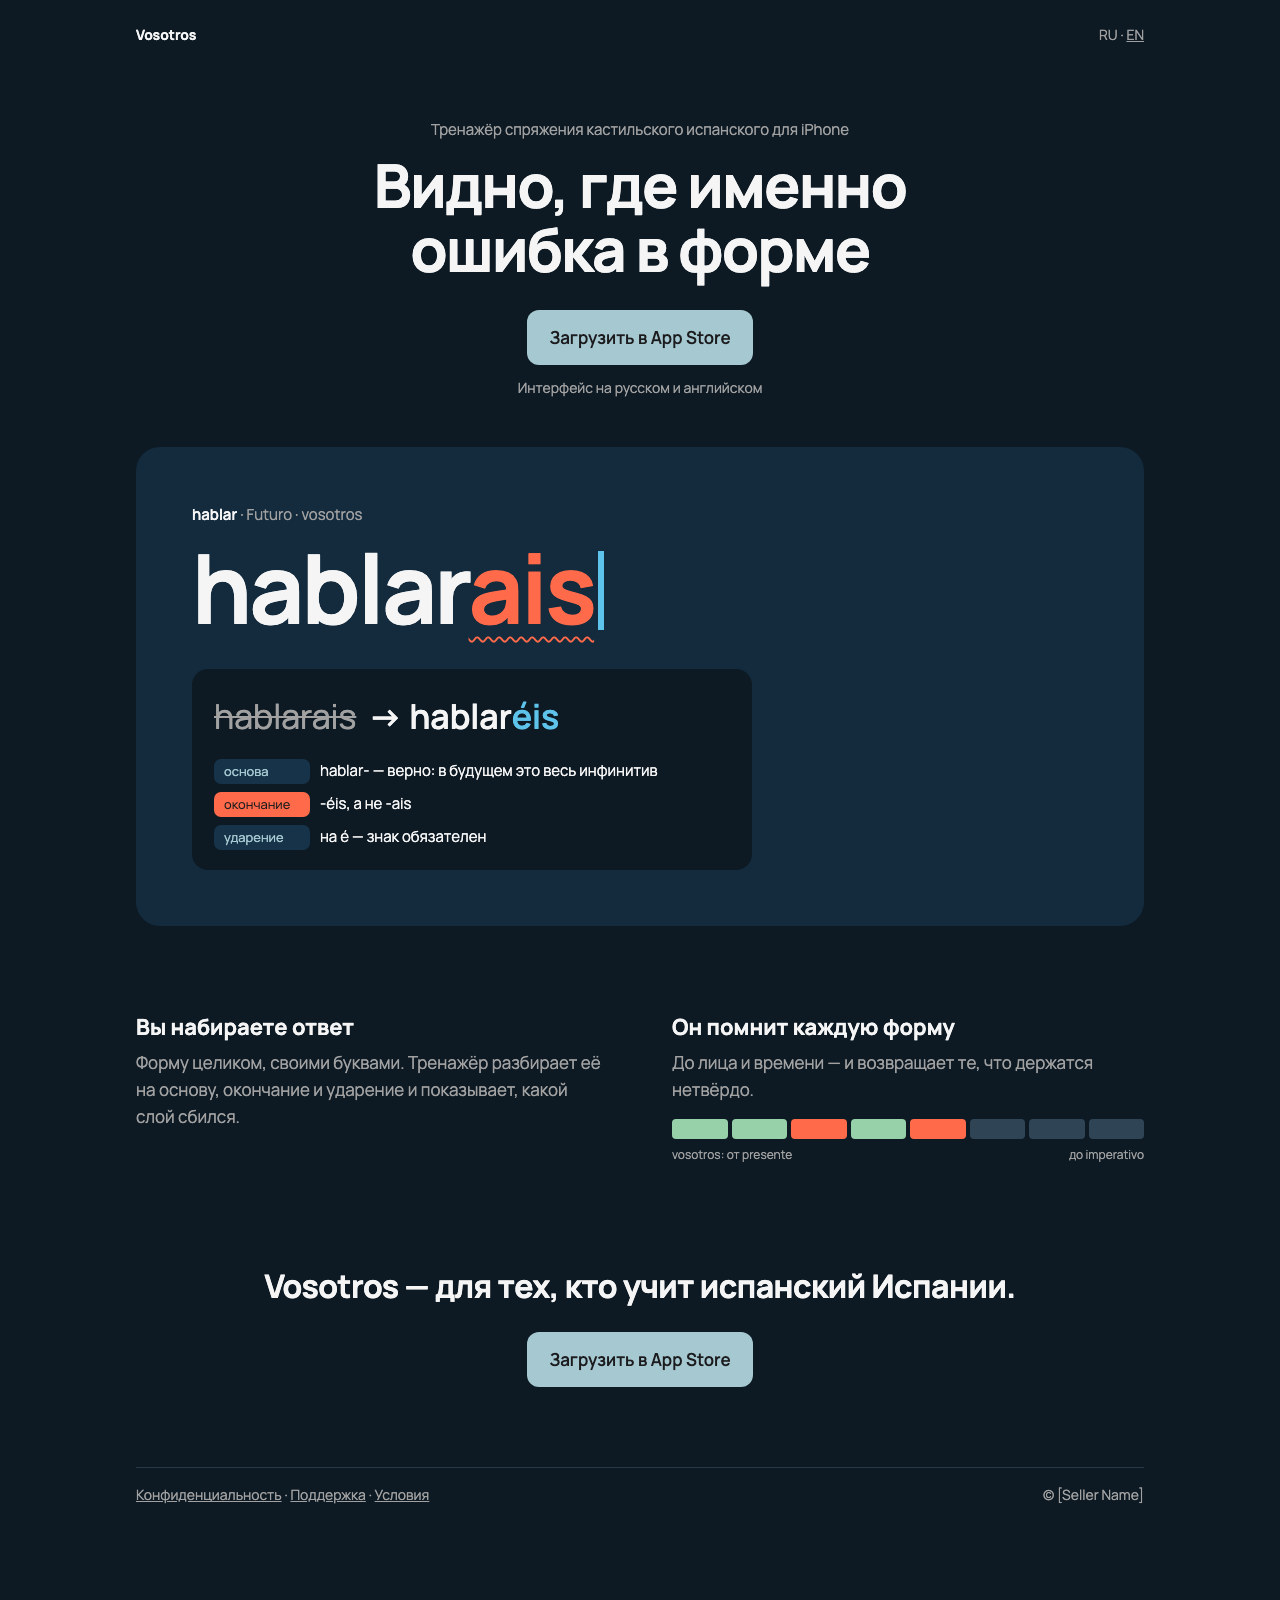
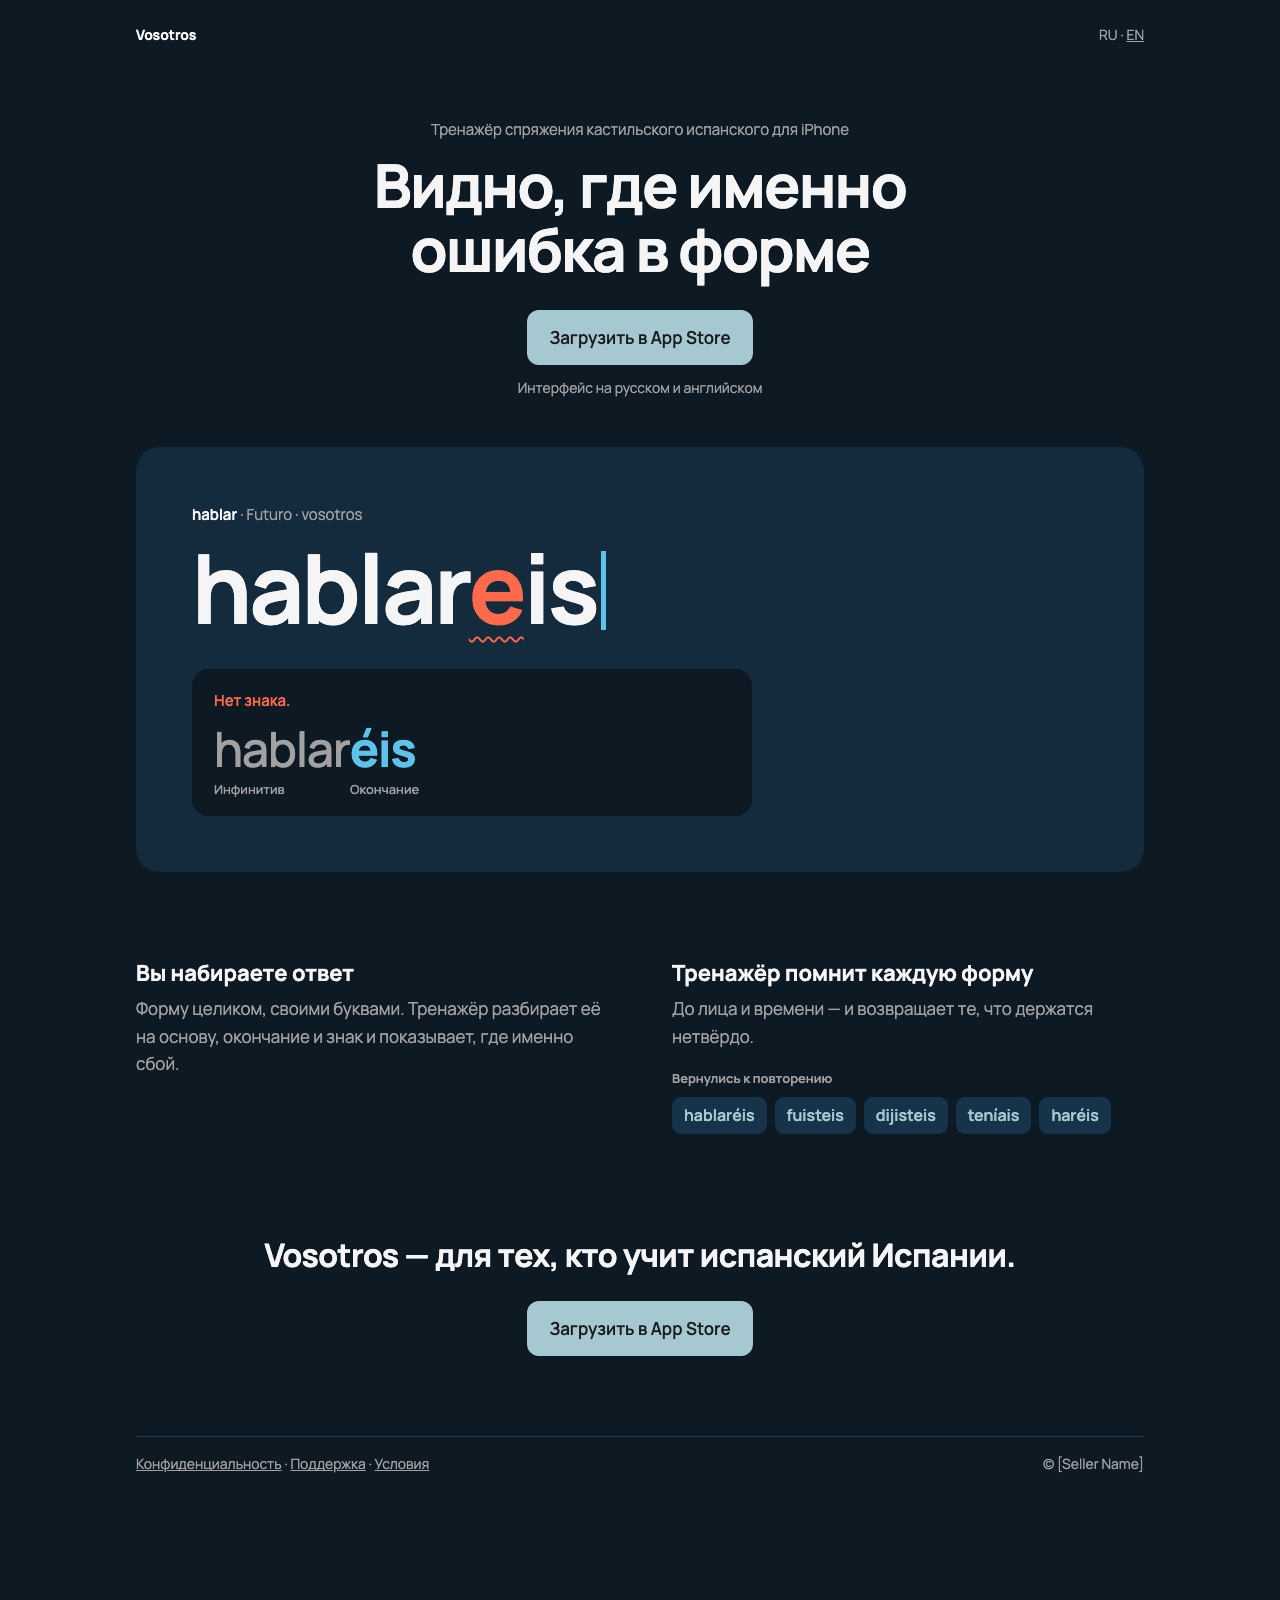
ЛН-1: вариант Б, круг 3 — герой hablareis (сбой только в знаке), карточка по экрану разбора и каталогу («Нет знака.», Инфинитив/Окончание), два варианта блока повторения без светофора; кадры круга 2 сохранены как -krug2

diff --git a/design/variant-B-nedelya.html b/design/variant-B-nedelya.html
@@ -1,0 +1,90 @@
+<!doctype html>
+<html lang="ru">
+<head>
+<meta charset="utf-8">
+<meta name="viewport" content="width=device-width, initial-scale=1">
+<title>Vosotros — вариант Б «Форма по слоям», круг 3, блок «Неделя»</title>
+<style>
+@font-face{font-family:Manrope;src:url(fonts/Manrope.ttf) format("truetype");font-weight:200 800;font-display:swap}
+:root{--bg:#FCFDFE;--sheet:#F4F8F9;--ink:#1C1C1C;--muted:#646464;--line:#D5DEE2;--nest:#D6E7F0;--nestInk:#12354E;--mark:#1F7FAE;--err:#C2381E;--ok:#1A7444;--okBg:#DCEFE3;--none:#C9D3D6;--btn:#12354E;--on:#fff;color-scheme:light dark}
+@media (prefers-color-scheme:dark){:root{--bg:#0D1A24;--sheet:#132B3D;--ink:#F5F5F5;--muted:#A1A1A1;--line:#26394A;--nest:#173349;--nestInk:#A5C8D1;--mark:#5EC3EA;--err:#FF6B4A;--ok:#96D1AA;--okBg:#1B3A2C;--none:#2F4556;--btn:#A5C8D1;--on:#1C1C1E}}
+*{box-sizing:border-box}
+body{margin:0;background:var(--bg);color:var(--ink);font:400 17px/1.6 Manrope,system-ui,sans-serif}
+a{color:inherit}
+.page{max-width:1040px;margin:0 auto;padding:24px 16px 40px}
+header,footer{display:flex;justify-content:space-between;gap:12px;font-size:14px;color:var(--muted)}
+header b{color:var(--ink);font-weight:700}
+.intro{text-align:center;max-width:640px;margin:72px auto 48px}
+.kicker{font-size:15px;color:var(--muted);margin:0 0 12px}
+h1{font-size:clamp(34px,6.4vw,60px);font-weight:700;letter-spacing:-.025em;line-height:1.06;margin:0 0 28px}
+.btn{display:inline-block;background:var(--btn);color:var(--on);text-decoration:none;font-weight:600;border-radius:12px;padding:14px 22px}
+.sub{font-size:14px;color:var(--muted);margin:12px 0 0}
+.sheet{background:var(--sheet);border-radius:24px;padding:clamp(24px,5vw,56px)}
+.ask{font-size:15px;color:var(--muted);margin:0}
+.ask b{color:var(--ink);font-weight:600}
+.typed{font-size:clamp(44px,10vw,96px);font-weight:700;letter-spacing:-.03em;line-height:1.1;margin:8px 0 28px;word-break:break-word}
+.typed .e{color:var(--err);text-decoration:underline wavy var(--err);text-decoration-thickness:2px;text-underline-offset:12px}
+.caret{display:inline-block;width:.06em;height:.82em;background:var(--mark);vertical-align:-.06em;margin-left:.04em;animation:blink 1.1s steps(1) infinite}
+@keyframes blink{50%{opacity:0}}
+@media (prefers-reduced-motion:reduce){.caret{animation:none}}
+.fix{background:var(--bg);border-radius:16px;padding:20px 22px;max-width:560px}
+.fix .verdict{margin:0 0 10px;font-size:15px;font-weight:600;color:var(--err)}
+.fix .row{margin:0;font-size:clamp(32px,6vw,48px);font-weight:700;letter-spacing:-.02em;line-height:1.1}
+.fix .row .st{color:var(--muted);font-weight:500}
+.fix .row .m{color:var(--mark)}
+.fix .pt{display:inline-flex;flex-direction:column}
+.fix .pt small{font-size:13px;font-weight:500;letter-spacing:0;color:var(--muted);margin-top:6px}
+.prose{display:grid;gap:40px;margin:88px 0 0}
+@media (min-width:760px){.prose{grid-template-columns:1fr 1fr;column-gap:64px}}
+.prose h2{font-size:22px;font-weight:700;line-height:1.25;margin:0 0 8px}
+.prose p{margin:0;color:var(--muted)}
+.week{margin:18px 0 0}
+.week b{display:block;font-size:13px;font-weight:600;color:var(--muted);margin-bottom:10px}
+.week ol{list-style:none;margin:0;padding:0;display:grid;grid-template-columns:repeat(7,1fr);gap:6px;align-items:end;height:96px}
+.week li{display:flex;flex-direction:column;justify-content:flex-end;align-items:center;height:100%;font-size:12px;color:var(--muted)}
+.week li i{display:block;width:100%;border-radius:5px 5px 2px 2px;background:var(--mark);opacity:1}
+.week li span{margin-top:6px}
+.end{text-align:center;margin:96px 0 0}
+.end p{font-size:clamp(24px,4vw,32px);font-weight:700;letter-spacing:-.015em;margin:0 0 20px}
+footer{margin-top:80px;padding-top:16px;border-top:1px solid var(--line);flex-wrap:wrap}
+</style>
+</head>
+<body><div class="page">
+<header><b>Vosotros</b><span>RU · <a href="#">EN</a></span></header>
+<main>
+<section class="intro">
+<p class="kicker">Тренажёр спряжения кастильского испанского для iPhone</p>
+<h1>Видно, где именно ошибка в&nbsp;форме</h1>
+<a class="btn" href="#">Загрузить в App Store</a>
+<p class="sub">Интерфейс на русском и английском</p>
+</section>
+
+<section class="sheet" aria-label="Пример разбора ответа">
+<p class="ask"><b>hablar</b> · Futuro · vosotros</p>
+<p class="typed">hablar<span class="e">e</span>is<span class="caret" aria-hidden="true"></span></p>
+<div class="fix">
+<p class="verdict">Нет знака.</p>
+<p class="row"><span class="pt"><span class="st">hablar</span><small>Инфинитив</small></span><span class="pt"><span class="m">éis</span><small>Окончание</small></span></p>
+</div>
+</section>
+
+<section class="prose">
+<div>
+<h2>Вы набираете ответ</h2>
+<p>Форму целиком, своими буквами. Тренажёр разбирает её на основу, окончание и знак и показывает, где именно сбой.</p>
+</div>
+<div>
+<h2>Тренажёр помнит каждую форму</h2>
+<p>До лица и времени — и возвращает те, что держатся нетвёрдо.</p>
+<div class="week"><b>Неделя — сколько форм подойдёт к повторению</b><ol><li><i style="height:81px" title="9"></i><span>пн</span></li><li><i style="height:45px" title="5"></i><span>вт</span></li><li><i style="height:63px" title="7"></i><span>ср</span></li><li><i style="height:27px" title="3"></i><span>чт</span></li><li><i style="height:54px" title="6"></i><span>пт</span></li><li><i style="height:18px" title="2"></i><span>сб</span></li><li><i style="height:36px" title="4"></i><span>вс</span></li></ol></div>
+</div>
+</section>
+
+<section class="end">
+<p>Vosotros — для тех, кто учит испанский Испании.</p>
+<a class="btn" href="#">Загрузить в App Store</a>
+</section>
+</main>
+<footer><span><a href="#">Конфиденциальность</a> · <a href="#">Поддержка</a> · <a href="https://www.apple.com/legal/internet-services/itunes/dev/stdeula/">Условия</a></span><span>© [Seller Name]</span></footer>
+</div></body>
+</html>

diff --git a/design/variant-B.html b/design/variant-B.html
@@ -3,7 +3,7 @@
 <head>
 <meta charset="utf-8">
 <meta name="viewport" content="width=device-width, initial-scale=1">
-<title>Vosotros — вариант Б «Форма по слоям», круг 2</title>
+<title>Vosotros — вариант Б «Форма по слоям», круг 3</title>
 <style>
 @font-face{font-family:Manrope;src:url(fonts/Manrope.ttf) format("truetype");font-weight:200 800;font-display:swap}
 :root{--bg:#FCFDFE;--sheet:#F4F8F9;--ink:#1C1C1C;--muted:#646464;--line:#D5DEE2;--nest:#D6E7F0;--nestInk:#12354E;--mark:#1F7FAE;--err:#C2381E;--ok:#1A7444;--okBg:#DCEFE3;--none:#C9D3D6;--btn:#12354E;--on:#fff;color-scheme:light dark}
@@ -28,21 +28,20 @@ h1{font-size:clamp(34px,6.4vw,60px);font-weight:700;letter-spacing:-.025em;line-
 @keyframes blink{50%{opacity:0}}
 @media (prefers-reduced-motion:reduce){.caret{animation:none}}
 .fix{background:var(--bg);border-radius:16px;padding:20px 22px;max-width:560px}
-.fix .row{display:flex;align-items:baseline;gap:12px;flex-wrap:wrap;font-size:clamp(24px,4.5vw,34px);font-weight:600}
-.fix .row s{color:var(--muted);font-weight:400;text-decoration-thickness:2px}
+.fix .verdict{margin:0 0 10px;font-size:15px;font-weight:600;color:var(--err)}
+.fix .row{margin:0;font-size:clamp(32px,6vw,48px);font-weight:700;letter-spacing:-.02em;line-height:1.1}
+.fix .row .st{color:var(--muted);font-weight:500}
 .fix .row .m{color:var(--mark)}
-.layers{list-style:none;margin:16px 0 0;padding:0;display:grid;gap:8px;font-size:15px}
-.layers li{display:flex;gap:10px;align-items:baseline}
-.layers .t{display:inline-block;min-width:96px;padding:2px 10px;border-radius:7px;background:var(--nest);color:var(--nestInk);font-size:13px}
-.layers .bad .t{background:var(--err);color:var(--on)}
+.fix .pt{display:inline-flex;flex-direction:column}
+.fix .pt small{font-size:13px;font-weight:500;letter-spacing:0;color:var(--muted);margin-top:6px}
 .prose{display:grid;gap:40px;margin:88px 0 0}
 @media (min-width:760px){.prose{grid-template-columns:1fr 1fr;column-gap:64px}}
 .prose h2{font-size:22px;font-weight:700;line-height:1.25;margin:0 0 8px}
 .prose p{margin:0;color:var(--muted)}
-.strip{display:grid;grid-template-columns:repeat(8,1fr);gap:4px;margin-top:16px}
-.strip i{height:20px;border-radius:4px;background:var(--none)}
-.strip .o{background:var(--ok)} .strip .x{background:var(--err)}
-.strip-cap{display:flex;justify-content:space-between;font-size:12px;color:var(--muted);margin-top:6px}
+.back{margin:18px 0 0}
+.back b{display:block;font-size:13px;font-weight:600;color:var(--muted);margin-bottom:8px}
+.back ul{list-style:none;margin:0;padding:0;display:flex;flex-wrap:wrap;gap:8px}
+.back li{background:var(--nest);color:var(--nestInk);border-radius:9px;padding:6px 12px;font-size:16px;font-weight:600}
 .end{text-align:center;margin:96px 0 0}
 .end p{font-size:clamp(24px,4vw,32px);font-weight:700;letter-spacing:-.015em;margin:0 0 20px}
 footer{margin-top:80px;padding-top:16px;border-top:1px solid var(--line);flex-wrap:wrap}
@@ -60,27 +59,22 @@ footer{margin-top:80px;padding-top:16px;border-top:1px solid var(--line);flex-wr
 
 <section class="sheet" aria-label="Пример разбора ответа">
 <p class="ask"><b>hablar</b> · Futuro · vosotros</p>
-<p class="typed">hablar<span class="e">ais</span><span class="caret" aria-hidden="true"></span></p>
+<p class="typed">hablar<span class="e">e</span>is<span class="caret" aria-hidden="true"></span></p>
 <div class="fix">
-<p class="row" style="margin:0"><s>hablarais</s><span style="white-space:nowrap"><span aria-hidden="true">→ </span>hablar<span class="m">éis</span></span></p>
-<ul class="layers">
-<li><span class="t">основа</span>hablar- — верно: в будущем это весь инфинитив</li>
-<li class="bad"><span class="t">окончание</span>-éis, а не -ais</li>
-<li><span class="t">ударение</span>на é — знак обязателен</li>
-</ul>
+<p class="verdict">Нет знака.</p>
+<p class="row"><span class="pt"><span class="st">hablar</span><small>Инфинитив</small></span><span class="pt"><span class="m">éis</span><small>Окончание</small></span></p>
 </div>
 </section>
 
 <section class="prose">
 <div>
 <h2>Вы набираете ответ</h2>
-<p>Форму целиком, своими буквами. Тренажёр разбирает её на основу, окончание и ударение и показывает, какой слой сбился.</p>
+<p>Форму целиком, своими буквами. Тренажёр разбирает её на основу, окончание и знак и показывает, где именно сбой.</p>
 </div>
 <div>
-<h2>Он помнит каждую форму</h2>
+<h2>Тренажёр помнит каждую форму</h2>
 <p>До лица и времени — и возвращает те, что держатся нетвёрдо.</p>
-<div class="strip" aria-hidden="true"><i class="o"></i><i class="o"></i><i class="x"></i><i class="o"></i><i class="x"></i><i></i><i></i><i></i></div>
-<div class="strip-cap"><span>vosotros: от presente</span><span>до imperativo</span></div>
+<div class="back"><b>Вернулись к повторению</b><ul><li>hablaréis</li><li>fuisteis</li><li>dijisteis</li><li>teníais</li><li>haréis</li></ul></div>
 </div>
 </section>
 
